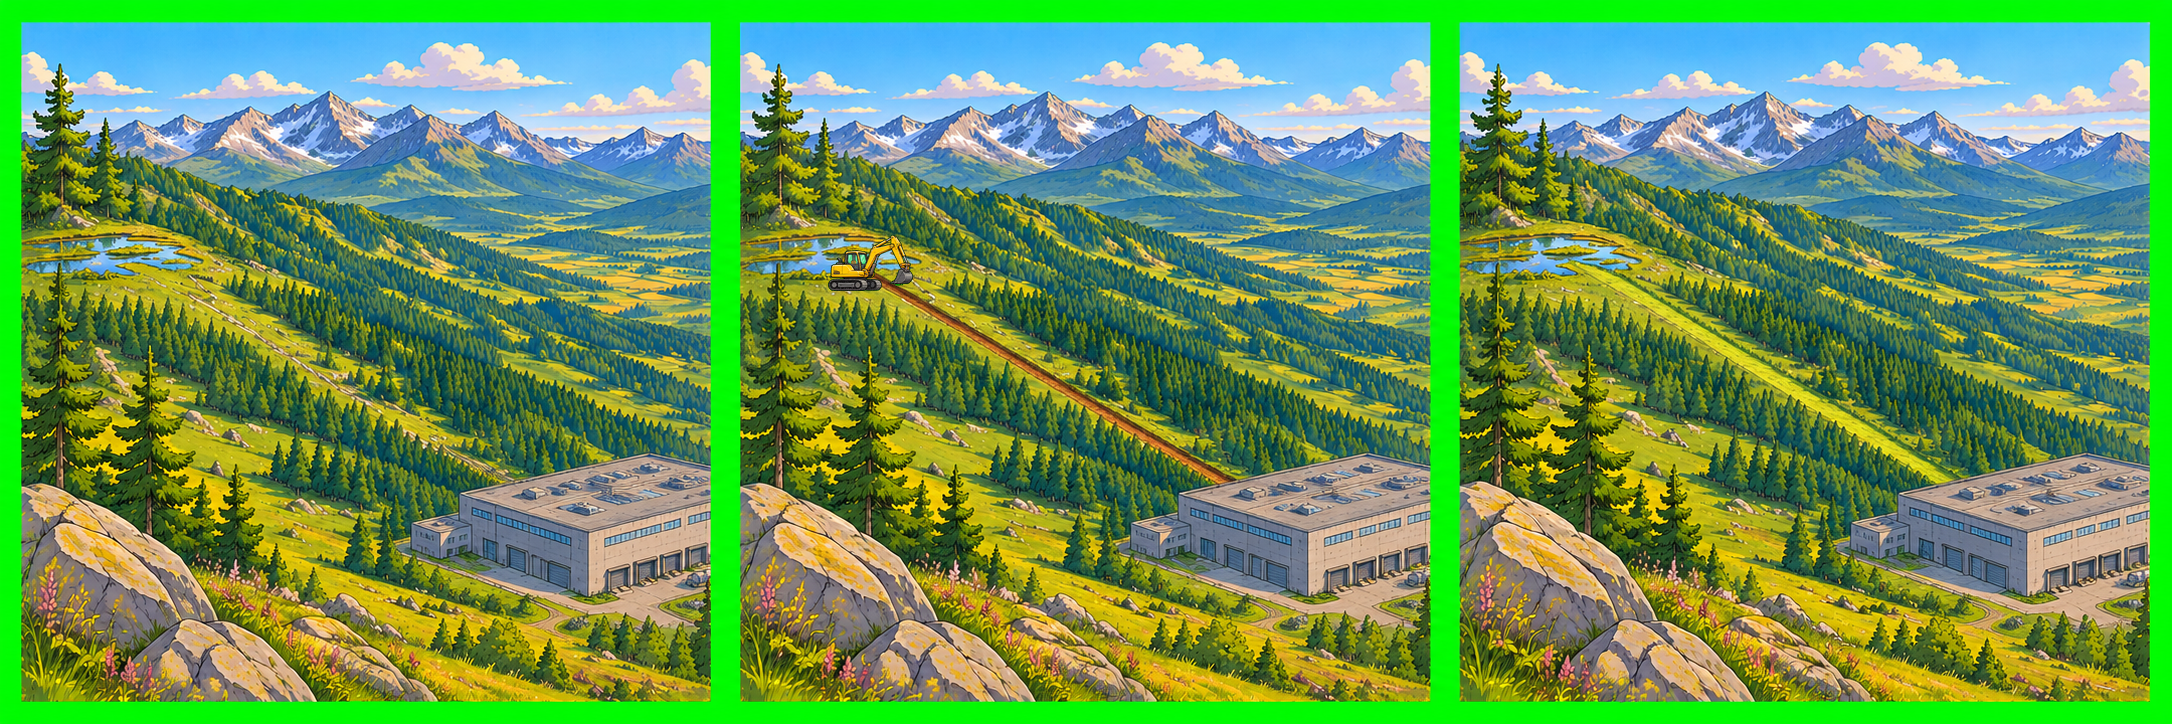
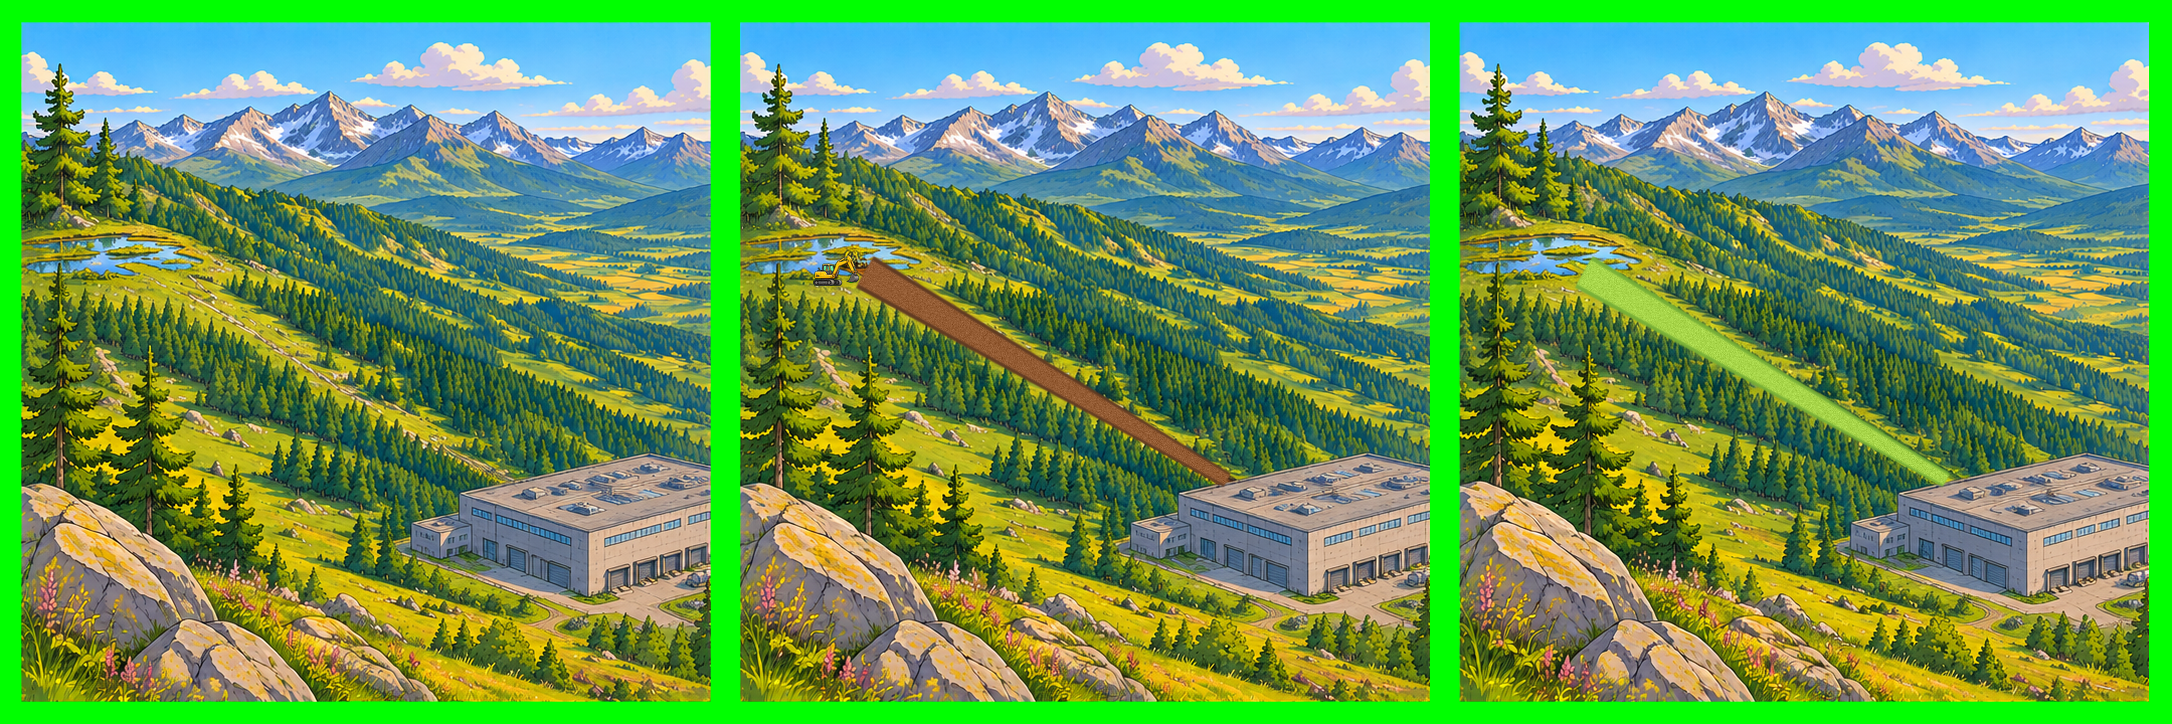
Ch4: cut script, trench widened, art
Claude-Session: https://claude.ai/code/session_017uTLcb4ks9ZVtt15isWSWj

Changed region(s): [[0.3702, 0.3343, 0.5861, 0.6685], [0.7095, 0.3646, 0.8637, 0.6077], [0.8637, 0.6077, 0.8946, 0.6685]]

diff --git a/web-games/aventure/tools/cut_v2.py b/web-games/aventure/tools/cut_v2.py
@@ -254,9 +254,89 @@ def chapter3():
     single(c[7], 'amb_kruhy', 120)
 
 
+def chapter4():
+    for n, size in (('tatry_chata_vecer', (2160, 720)), ('tatry_chata_rano', (2160, 720)), ('tatry_izba', (2160, 720))):
+        im = Image.open(os.path.join(SRC, n + '_src.png')).convert('RGB').resize(size, Image.LANCZOS)
+        im.save(os.path.join(ART, n + '.webp'), quality=88)
+        print(n + '.webp')
+    k = Image.open(os.path.join(SRC, 'tatry_kuchyna_src.png')).convert('RGB').resize((1920, 1080), Image.LANCZOS)
+    k.save(os.path.join(ART, 'tatry_kuchyna.webp'), quality=88)
+    # les trois photos du mur : trois carres separes par du vert
+    ph = Image.open(os.path.join(SRC, 'fotky_chata_src.png')).convert('RGB')
+    for x0, n in zip((21, 740, 1459), ('foto_a', 'foto_b', 'foto_c')):
+        ph.crop((x0, 22, x0 + 690, 702)).save(os.path.join(ART, n + '.webp'), quality=90)
+        print(n + '.webp')
+    c = cells(os.path.join(SRC, 'chatar_sheet_src.png'), 4, 2)
+    for cell, name in zip(c, ['worry', 'talk', 'laugh', 'frame', 'candle', 'walk', 'cross', 'wink']):
+        single(cell, 'chatar_' + name, 460)
+    c = cells(os.path.join(SRC, 'pan_mokry_sheet_src.png'), 4, 2)
+    for cell, name in zip(c, ['door', 'talk', 'lean', 'look', 'tea', 'sleep', 'card', 'shake']):
+        single(cell, 'panm_' + name, 460)
+    c = cells(os.path.join(SRC, 'figurants_ch4_src.png'), 3, 2)
+    pair(c[0], c[3], 'bernardin_a', 'bernardin_b', 220)
+    pair(c[1], c[4], 'turisti_a', 'turisti_b', 330)
+    pair(c[2], c[5], 'svist_a', 'svist_b', 300)
+    c = cells(os.path.join(SRC, 'objets_ch4_src.png'), 4, 2)
+    for i, name, mh in [(0, 'obj_sviecka', 220), (1, 'obj_zapalky_mokre', 120), (2, 'obj_plechovka', 130), (3, 'item_zapalky', 130),
+                        (4, 'obj_kanvica', 200), (5, 'item_salka', 130), (6, 'obj_salky', 220), (7, 'item_poistka', 120)]:
+        single(c[i], name, mh)
+    c = cells(os.path.join(SRC, 'objets_ch4b_src.png'), 4, 2)
+    for i, name, mh in [(0, 'obj_taska', 160), (1, 'obj_tenisky', 160), (2, 'obj_vizitka', 90), (3, 'obj_ponozky', 200),
+                        (4, 'item_lupa', 180), (5, 'obj_bager', 160), (6, 'item_mapa', 180), (7, 'obj_ram', 200)]:
+        single(c[i], name, mh)
+    c = cells(os.path.join(SRC, 'ambiance_ch4_src.png'), 4, 2)
+    pair(c[0], c[1], 'amb_blesk_a', 'amb_blesk_b', 620)
+    pair(c[2], c[3], 'amb_dazd_a', 'amb_dazd_b', 360)
+    pair(c[4], c[5], 'amb_plamen_a', 'amb_plamen_b', 120)
+    pair(c[6], c[7], 'amb_piecka_a', 'amb_piecka_b', 260)
+    fix_ch4()
+
+
+def _load(name):
+    return np.asarray(Image.open(os.path.join(ART, name + '.png')).convert('RGBA')).astype(np.float32)
+
+
+def _store(name, arr):
+    Image.fromarray(np.clip(arr, 0, 255).astype(np.uint8), 'RGBA').save(os.path.join(ART, name + '.png'), optimize=True)
+
+
+def fix_ch4():
+    """Les halos et la vapeur dessines sur fond vert restent verts apres detourage : on les nettoie."""
+    # lueur verte autour d'une flamme : on la fait disparaitre
+    for n in ('obj_sviecka', 'chatar_candle', 'amb_plamen_a', 'amb_plamen_b'):
+        a = _load(n); r, g, b = a[..., 0], a[..., 1], a[..., 2]
+        gr = g - np.maximum(r, b)
+        a[..., 3] *= np.clip(1 - (gr - 6) / 30, 0, 1)
+        a[..., 1] = np.minimum(g, np.maximum(r, b) + 6)
+        _store(n, a)
+    # eclair : blanc chaud, transparence selon le bleu (le fond vert n'en a pas, le coeur blanc en a beaucoup)
+    for n in ('amb_blesk_a', 'amb_blesk_b'):
+        a = _load(n); b = a[..., 2]
+        al = np.clip((b - 40) / 170, 0, 1) ** 0.8
+        a[..., 0], a[..., 1], a[..., 2] = 255, 252, 235
+        a[..., 3] = al * 255
+        _store(n, a)
+    # pluie sur la vitre : bleu-blanc, meme principe
+    for n in ('amb_dazd_a', 'amb_dazd_b'):
+        a = _load(n); b = a[..., 2]
+        al = np.clip((b - 60) / 160, 0, 1)
+        a[..., 0], a[..., 1], a[..., 2] = 205, 228, 255
+        a[..., 3] = al * 235
+        _store(n, a)
+    # vapeur des tasses : verte -> blanche
+    a = _load('obj_salky'); r, g, b = a[..., 0], a[..., 1], a[..., 2]
+    m = (g - np.maximum(r, b)) > 14
+    for i, v in enumerate((236, 240, 240)):
+        a[..., i] = np.where(m, v, a[..., i])
+    a[..., 3] = np.where(m, a[..., 3] * 0.55, a[..., 3])
+    _store('obj_salky', a)
+
+
 if __name__ == '__main__':
     import sys
-    if 'ch3' in sys.argv:
+    if 'ch4' in sys.argv:
+        chapter4()
+    elif 'ch3' in sys.argv:
         chapter3()
     elif 'ch2' in sys.argv:
         chapter2()

diff --git a/web-games/aventure/tools/make_fotky.py b/web-games/aventure/tools/make_fotky.py
@@ -1,0 +1,66 @@
+#!/usr/bin/env python3
+"""Photos du mur du refuge : part de la planche brute de ChatGPT (art/sources/fotky_chata_gen.png), elargit la tranchee
+(photo 2 : terre brune ; photo 3 : cicatrice verte) et pose la pelleteuse a la bonne echelle (tranchee aussi large qu'elle).
+Ecrit art/sources/fotky_chata_src.png.   python3 tools/make_fotky.py
+"""
+import os
+import numpy as np
+from PIL import Image, ImageDraw, ImageFilter
+
+ART = os.path.join(os.path.dirname(__file__), '..', 'art')
+SRC = os.path.join(ART, 'sources')
+X = [21, 740, 1459]          # x des trois images dans la planche (690 x 680, y 22)
+P0, P1 = (125, 250), (487, 458)   # de la mare au batiment (coordonnees dans l'image)
+W0, W1 = 36, 15              # largeur de la bande en haut / en bas (perspective)
+
+def band(size, w0, w1, ss=4):
+    m = Image.new('L', (size[0] * ss, size[1] * ss), 0)
+    d = ImageDraw.Draw(m)
+    (x0, y0), (x1, y1) = P0, P1
+    dx, dy = x1 - x0, y1 - y0
+    L = (dx * dx + dy * dy) ** 0.5
+    nx, ny = -dy / L, dx / L
+    pts = [((x0 + nx * w0 / 2) * ss, (y0 + ny * w0 / 2) * ss), ((x1 + nx * w1 / 2) * ss, (y1 + ny * w1 / 2) * ss),
+           ((x1 - nx * w1 / 2) * ss, (y1 - ny * w1 / 2) * ss), ((x0 - nx * w0 / 2) * ss, (y0 - ny * w0 / 2) * ss)]
+    d.polygon(pts, fill=255)
+    return m.resize(size, Image.LANCZOS).filter(ImageFilter.GaussianBlur(0.7))
+
+def paint(pic, base, edge, w0, w1, seed):
+    size = pic.size
+    outer = band(size, w0, w1)
+    inner = band(size, w0 * 0.78, w1 * 0.7)
+    rng = np.random.default_rng(seed)
+    noise = rng.normal(0, 7, (size[1], size[0], 1))
+    arr = np.asarray(pic).astype(np.float32)
+    col_e = np.array(edge, np.float32); col_b = np.array(base, np.float32)
+    mo = np.asarray(outer).astype(np.float32)[..., None] / 255
+    mi = np.asarray(inner).astype(np.float32)[..., None] / 255
+    arr = arr * (1 - mo) + col_e * mo
+    arr = arr * (1 - mi) + (col_b + noise) * mi
+    return Image.fromarray(np.clip(arr, 0, 255).astype(np.uint8))
+
+def main():
+    sheet = Image.open(os.path.join(SRC, 'fotky_chata_gen.png')).convert('RGB')
+    pics = [sheet.crop((x, 22, x + 690, 702)) for x in X]
+    pics[1] = paint(pics[1], (148, 92, 52), (96, 58, 34), W0, W1, 1)
+    pics[2] = paint(pics[2], (168, 214, 74), (120, 176, 56), W0, W1, 2)
+    # la pelleteuse (objets_ch4b, case 6), de la meme largeur que la tranchee, posee a gauche du debut de la bande
+    ob = Image.open(os.path.join(SRC, 'objets_ch4b_src.png')).convert('RGB')
+    cw, ch = ob.size[0] / 4, ob.size[1] / 2
+    cell = ob.crop((round(cw), round(ch), round(2 * cw), round(2 * ch)))
+    a = np.asarray(cell).astype(int)
+    g = (a[..., 1] > 180) & (a[..., 0] < 120) & (a[..., 2] < 120)
+    rgba = Image.fromarray(np.dstack([a.astype(np.uint8), (~g).astype(np.uint8) * 255]), 'RGBA')
+    rgba = rgba.crop(rgba.getchannel('A').getbbox())
+    w = 46
+    ex = rgba.resize((w, round(rgba.height * w / rgba.width)), Image.LANCZOS)
+    base = pics[1].convert('RGBA'); base.alpha_composite(ex, (P0[0] - w - 6, P0[1] + 14 - ex.height)); pics[1] = base.convert('RGB')
+    out = Image.new('RGB', sheet.size, (0, 255, 0))
+    for x, p in zip(X, pics):
+        out.paste(p, (x, 22))
+    out.save(os.path.join(SRC, 'fotky_chata_src.png'))
+    for n, p in zip('abc', pics):
+        p.crop((40, 180, 540, 500)).save(f'/tmp/fotky_{n}.png')
+
+if __name__ == '__main__':
+    main()
